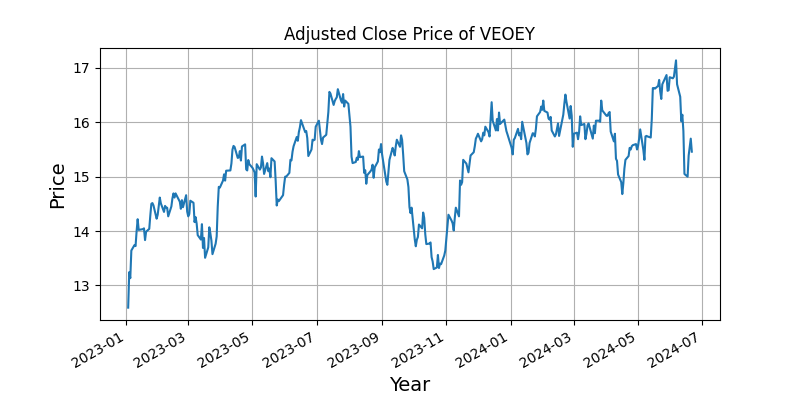
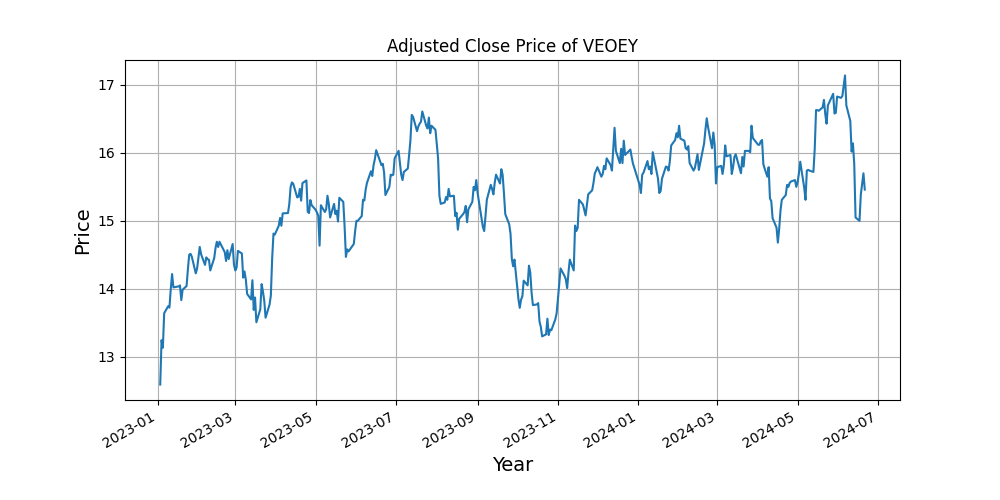
vault backup: 2024-06-21 22:47:48

diff --git a/.history/sessions/06_2024/stock_analysis/technicals_20240621223659.py b/.history/sessions/06_2024/stock_analysis/technicals_20240621223659.py
@@ -1,0 +1,78 @@
+import pandas as pd
+import yfinance as yf
+import matplotlib.pyplot as plt
+from ta.utils import dropna
+from ta.volatility import BollingerBands
+from ta.momentum import RSIIndicator
+from ta.trend import MACD
+
+def add_bollinger_bands(df):
+    df = dropna(df)
+
+    indicator_bb = BollingerBands(close=df["Close"], window=20, window_dev=2)
+
+    df['bb_bbm'] = indicator_bb.bollinger_mavg()
+    df['bb_bbh'] = indicator_bb.bollinger_hband()
+    df['bb_bbl'] = indicator_bb.bollinger_lband()
+    df['bb_bbhi'] = indicator_bb.bollinger_hband_indicator()
+    df['bb_bbli'] = indicator_bb.bollinger_lband_indicator()
+    df['bb_bbw'] = indicator_bb.bollinger_wband()
+    df['bb_bbp'] = indicator_bb.bollinger_pband()
+
+    return df
+
+def plot_bollinger_bands(df, ticker):
+    fig, ax1 = plt.subplots(figsize=(10, 5))
+
+    ax1.plot(df.index, df['Adj Close'], label='Adjusted Close')
+    ax1.plot(df.index, df['bb_bbm'], label='BB Middle Band')
+    ax1.plot(df.index, df['bb_bbh'], label='BB High Band')
+    ax1.plot(df.index, df['bb_bbl'], label='BB Low Band')
+
+    ax1.set_title(f'Bollinger Bands for {ticker}')
+    ax1.set_ylabel('Price', fontsize=14)
+    ax1.set_xlabel('Year', fontsize=14)
+    ax1.legend()
+    ax1.grid(which='major')
+
+    plt.tight_layout()
+    plt.savefig(f'{ticker}/bollinger_bands.png')
+    plt.show()
+
+def calculate_rsi(df):
+    rsi_indicator = RSIIndicator(close=df['Adj Close'], window=14)
+    df['RSI'] = rsi_indicator.rsi()
+    return df
+
+def plot_rsi(df, ticker):
+    plt.figure(figsize=(10, 5))
+    plt.plot(df['RSI'], label='RSI')
+    plt.axhline(70, linestyle='--', alpha=0.5, color='red')
+    plt.axhline(30, linestyle='--', alpha=0.5, color='green')
+    plt.title(f'{ticker} Relative Strength Index (RSI)')
+    plt.xlabel('Date')
+    plt.ylabel('RSI')
+    plt.legend()
+    plt.grid(True)
+    plt.savefig(f'{ticker}/rsi.png')
+    plt.show()
+
+def calculate_macd(df):
+    macd_indicator = MACD(close=df['Adj Close'])
+    df['MACD'] = macd_indicator.macd()
+    df['MACD_Signal'] = macd_indicator.macd_signal()
+    df['MACD_Diff'] = macd_indicator.macd_diff()
+    return df
+
+def plot_macd(df, ticker):
+    plt.figure(figsize=(10, 5))
+    plt.plot(df['MACD'], label='MACD')
+    plt.plot(df['MACD_Signal'], label='MACD Signal')
+    plt.bar(df.index, df['MACD_Diff'], label='MACD Diff', color='gray')
+    plt.title(f'{ticker} MACD')
+    plt.xlabel('Date')
+    plt.ylabel('MACD')
+    plt.legend()
+    plt.grid(True)
+    plt.savefig(f'{ticker}/macd.png')
+    plt.show()

diff --git a/.history/sessions/06_2024/stock_analysis/visual_20240621223715.py b/.history/sessions/06_2024/stock_analysis/visual_20240621223715.py
@@ -3,30 +3,16 @@ import seaborn as sns
 from matplotlib import style
 
 def plot_adjusted_close(df, ticker):
-    """
-    Plots the adjusted close price of a stock over time.
-    
-    Args:
-        df (pandas.DataFrame): The DataFrame containing the stock data.
-        ticker (str): The ticker symbol of the stock.
-    """
-    plt.figure(figsize=(10, 5))
+    plt.figure(figsize=(10,5))
     df['Adj Close'].plot()
     plt.title(f'Adjusted Close Price of {ticker}')
     plt.ylabel('Price', fontsize=14)
-    plt.xlabel('Date', fontsize=14)
+    plt.xlabel('Year', fontsize=14)
     plt.grid(which='major')
     plt.savefig(f'{ticker}/adjusted_close.png')
     plt.show()
 
 def plot_moving_average(df, ticker):
-    """
-    Plots the adjusted close price and its 100-day moving average of a stock over time.
-    
-    Args:
-        df (pandas.DataFrame): The DataFrame containing the stock data.
-        ticker (str): The ticker symbol of the stock.
-    """
     df["100ma"] = df["Adj Close"].rolling(window=100, min_periods=0).mean()
     df.dropna(inplace=True)
 
@@ -42,6 +28,8 @@ def plot_moving_average(df, ticker):
     plt.tight_layout()
     plt.savefig(f'{ticker}/moving_average.png')
     plt.show()
+
+
 
 def plot_volume(df, ticker):
     """
@@ -60,3 +48,4 @@ def plot_volume(df, ticker):
     plt.grid(True)
     plt.savefig(f'{ticker}/volume.png')
     plt.show()
+

diff --git a/.history/sessions/06_2024/stock_analysis/main_20240621222651.py b/.history/sessions/06_2024/stock_analysis/main_20240621222651.py
@@ -15,30 +15,30 @@ end_date = datetime.datetime.now()
 # create a folder called by the ticker
 os.makedirs(ticker, exist_ok=True)
 
-# Get data
-df_yahoo = get_yahoo_data(tickers, start_date, end_date)
-# df_web_google = get_web_data("GOOGL", start_date, end_date)
-df=df_yahoo
+# # Get data
+# df_yahoo = get_yahoo_data(tickers, start_date, end_date)
+# # df_web_google = get_web_data("GOOGL", start_date, end_date)
+# df=df_yahoo
 
-# visuals
-plot_adjusted_close(df, ticker)
-plot_moving_average(df, ticker)
-plot_volume(df, ticker)
+# # visuals
+# plot_adjusted_close(df, ticker)
+# plot_moving_average(df, ticker)
+# plot_volume(df, ticker)
 
-#technical indicators
-df = add_bollinger_bands(df)
-plot_bollinger_bands(df, ticker)
+# #technical indicators
+# df = add_bollinger_bands(df)
+# plot_bollinger_bands(df, ticker)
 
-df = calculate_rsi(df)
-plot_rsi(df, ticker)
+# df = calculate_rsi(df)
+# plot_rsi(df, ticker)
 
-df = calculate_macd(df)
-plot_macd(df, ticker)
+# df = calculate_macd(df)
+# plot_macd(df, ticker)
 
 #fundamental
-# income_stmt, balance_sheet, cash_flow = fetch_financial_data(ticker)
+income_stmt, balance_sheet, cash_flow = fetch_financial_data(ticker)
 
-# needs to be fixed wrt above.
+# needs to be fixed.
 
 # balance_sheet
 # first_column_terms = balance_sheet.index

diff --git a/.history/sessions/06_2024/stock_analysis/main_20240621222701.py b/.history/sessions/06_2024/stock_analysis/main_20240621222701.py
@@ -15,28 +15,28 @@ end_date = datetime.datetime.now()
 # create a folder called by the ticker
 os.makedirs(ticker, exist_ok=True)
 
-# Get data
-df_yahoo = get_yahoo_data(tickers, start_date, end_date)
-# df_web_google = get_web_data("GOOGL", start_date, end_date)
-df=df_yahoo
+# # Get data
+# df_yahoo = get_yahoo_data(tickers, start_date, end_date)
+# # df_web_google = get_web_data("GOOGL", start_date, end_date)
+# df=df_yahoo
 
-# visuals
-plot_adjusted_close(df, ticker)
-plot_moving_average(df, ticker)
-plot_volume(df, ticker)
+# # visuals
+# plot_adjusted_close(df, ticker)
+# plot_moving_average(df, ticker)
+# plot_volume(df, ticker)
 
-#technical indicators
-df = add_bollinger_bands(df)
-plot_bollinger_bands(df, ticker)
+# #technical indicators
+# df = add_bollinger_bands(df)
+# plot_bollinger_bands(df, ticker)
 
-df = calculate_rsi(df)
-plot_rsi(df, ticker)
+# df = calculate_rsi(df)
+# plot_rsi(df, ticker)
 
-df = calculate_macd(df)
-plot_macd(df, ticker)
+# df = calculate_macd(df)
+# plot_macd(df, ticker)
 
 #fundamental
-# income_stmt, balance_sheet, cash_flow = fetch_financial_data(ticker)
+income_stmt, balance_sheet, cash_flow = fetch_financial_data(ticker)
 
 # needs to be fixed wrt above.
 
